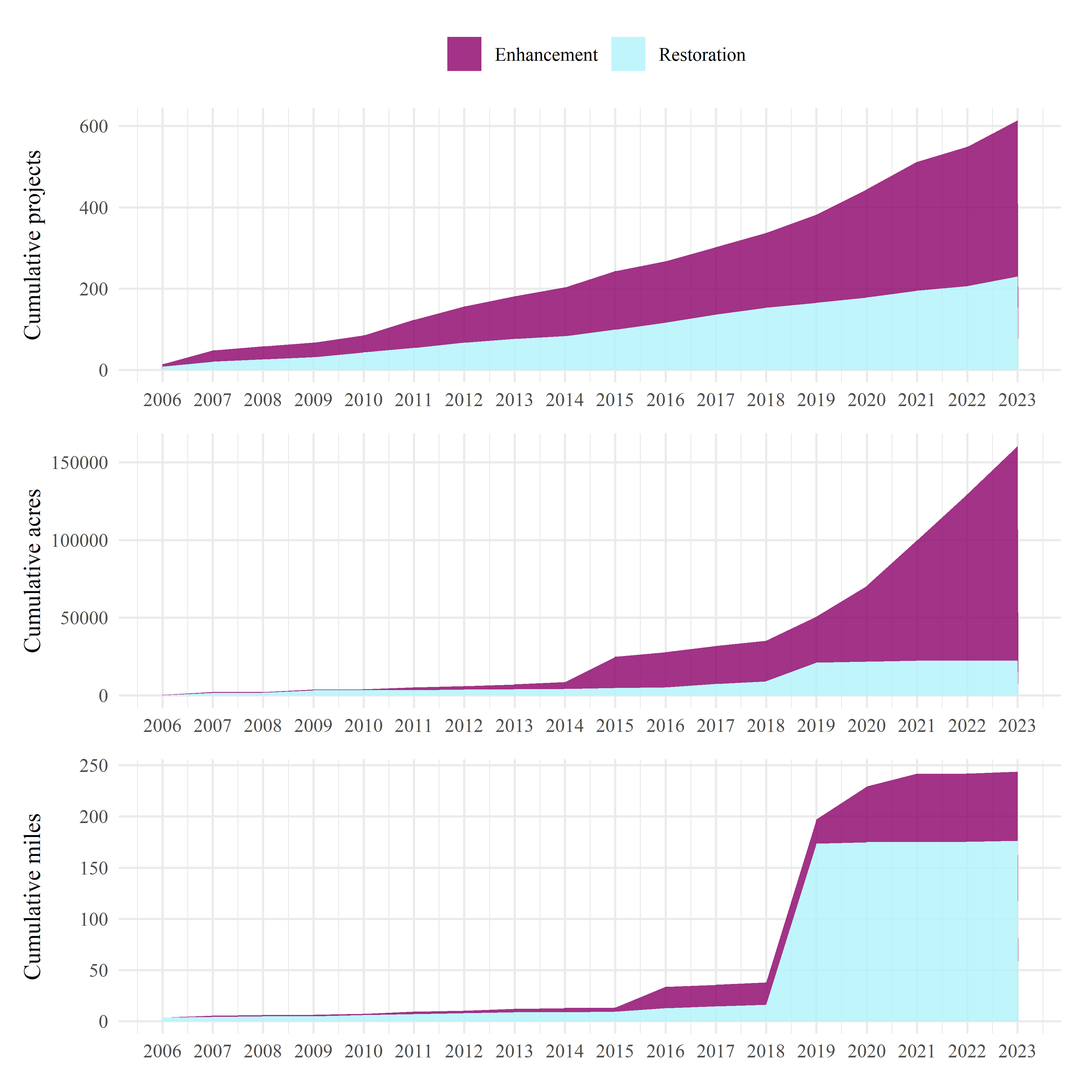
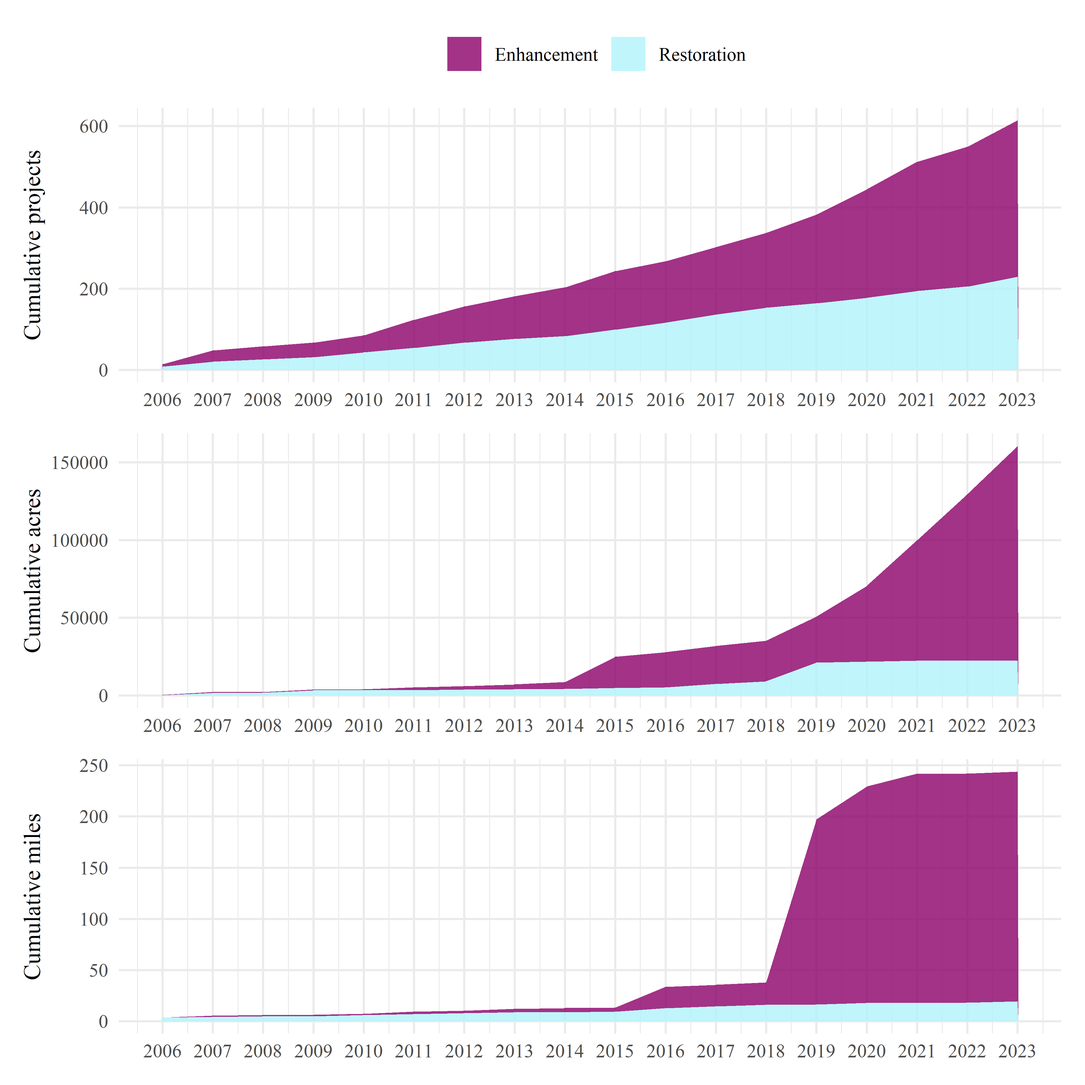
reproc summaries with fix to restoration data for 157 project to enhancement

Changed region(s): [[0.6851, 0.7474, 0.9654, 0.9343]]

diff --git a/docs/summaries.html b/docs/summaries.html
@@ -127,8 +127,8 @@ Note
 <div class="cell-output-display">
 
 <h5 class="title anchored">Projects in Tampa Bay by primary habitat (2006-2023)</h5>
-<div class="reactable html-widget html-fill-item-overflow-hidden html-fill-item" id="htmlwidget-1bc8f4dcec705fb9eadd" style="width:auto;height:auto;"></div>
-<script type="application/json" data-for="htmlwidget-1bc8f4dcec705fb9eadd">{"x":{"tag":{"name":"Reactable","attribs":{"data":{"rowgrp":["Artificial Reefs","Coastal Uplands","Forested Freshwater Wetlands","Hard Bottom","Intertidal Estuarine (Other)","Living Shorelines","Low-Salinity Salt Marsh","Mangrove Forests","Non-forested Freshwater Wetlands","Oyster Bars","Salt Barrens","Seagrasses","Tidal Tributaries","Uplands (Non-coastal)","Other","Total"],"tot":["3","34","45","9","40","14","49","39","48","14","2","12","11","293","1","614"],"Restoration (Ac / Mi)":["0 / < 1","12,107 / < 1","490 / < 1","23 / 2","194 / 162","7 / 3","159 / 5","404 / < 1","766 / < 1","300 / 1","42 / 0","3,100 / < 1","54 / < 1","4,835 / < 1","0 / < 1","22,480 / 176"],"Enhancement (Ac / Mi)":["0 / 0","2,093 / 2","1,238 / 2","0 / 0","273 / 16","0 / 0","144 / 0","1,140 / < 1","267 / 3","0 / 0","0 / 0","< 1 / < 1","1 / 1","132,750 / 41","0 / 0","137,906 / 67"]},"columns":[{"id":"rowgrp","name":"Habitat","type":"character","resizable":true,"minWidth":180,"style":[{"fontSize":14,"fontFamily":"roboto"},{"fontSize":14,"fontFamily":"roboto"},{"fontSize":14,"fontFamily":"roboto"},{"fontSize":14,"fontFamily":"roboto"},{"fontSize":14,"fontFamily":"roboto"},{"fontSize":14,"fontFamily":"roboto"},{"fontSize":14,"fontFamily":"roboto"},{"fontSize":14,"fontFamily":"roboto"},{"fontSize":14,"fontFamily":"roboto"},{"fontSize":14,"fontFamily":"roboto"},{"fontSize":14,"fontFamily":"roboto"},{"fontSize":14,"fontFamily":"roboto"},{"fontSize":14,"fontFamily":"roboto"},{"fontSize":14,"fontFamily":"roboto"},{"fontSize":14,"fontFamily":"roboto"},{"fontWeight":"bold","fontSize":14,"fontFamily":"roboto"}],"headerStyle":{"fontSize":14,"fontFamily":"roboto"},"className":"sticky left-col-1-bord","headerClassName":"sticky left-col-1-bord","footerClassName":"sticky left-col-1-bord"},{"id":"tot","name":"Total projects","type":"character","resizable":true,"minWidth":70,"style":[{"fontSize":14,"fontFamily":"roboto"},{"fontSize":14,"fontFamily":"roboto"},{"fontSize":14,"fontFamily":"roboto"},{"fontSize":14,"fontFamily":"roboto"},{"fontSize":14,"fontFamily":"roboto"},{"fontSize":14,"fontFamily":"roboto"},{"fontSize":14,"fontFamily":"roboto"},{"fontSize":14,"fontFamily":"roboto"},{"fontSize":14,"fontFamily":"roboto"},{"fontSize":14,"fontFamily":"roboto"},{"fontSize":14,"fontFamily":"roboto"},{"fontSize":14,"fontFamily":"roboto"},{"fontSize":14,"fontFamily":"roboto"},{"fontSize":14,"fontFamily":"roboto"},{"fontSize":14,"fontFamily":"roboto"},{"fontWeight":"bold","fontSize":14,"fontFamily":"roboto"}],"headerStyle":{"fontSize":14,"fontFamily":"roboto"}},{"id":"Restoration (Ac / Mi)","name":"Restoration (Ac / Mi)","type":"character","resizable":true,"minWidth":100,"style":[{"fontSize":14,"fontFamily":"roboto"},{"fontSize":14,"fontFamily":"roboto"},{"fontSize":14,"fontFamily":"roboto"},{"fontSize":14,"fontFamily":"roboto"},{"fontSize":14,"fontFamily":"roboto"},{"fontSize":14,"fontFamily":"roboto"},{"fontSize":14,"fontFamily":"roboto"},{"fontSize":14,"fontFamily":"roboto"},{"fontSize":14,"fontFamily":"roboto"},{"fontSize":14,"fontFamily":"roboto"},{"fontSize":14,"fontFamily":"roboto"},{"fontSize":14,"fontFamily":"roboto"},{"fontSize":14,"fontFamily":"roboto"},{"fontSize":14,"fontFamily":"roboto"},{"fontSize":14,"fontFamily":"roboto"},{"fontWeight":"bold","fontSize":14,"fontFamily":"roboto"}],"headerStyle":{"fontSize":14,"fontFamily":"roboto"}},{"id":"Enhancement (Ac / Mi)","name":"Enhancement (Ac / Mi)","type":"character","resizable":true,"minWidth":100,"style":[{"fontSize":14,"fontFamily":"roboto"},{"fontSize":14,"fontFamily":"roboto"},{"fontSize":14,"fontFamily":"roboto"},{"fontSize":14,"fontFamily":"roboto"},{"fontSize":14,"fontFamily":"roboto"},{"fontSize":14,"fontFamily":"roboto"},{"fontSize":14,"fontFamily":"roboto"},{"fontSize":14,"fontFamily":"roboto"},{"fontSize":14,"fontFamily":"roboto"},{"fontSize":14,"fontFamily":"roboto"},{"fontSize":14,"fontFamily":"roboto"},{"fontSize":14,"fontFamily":"roboto"},{"fontSize":14,"fontFamily":"roboto"},{"fontSize":14,"fontFamily":"roboto"},{"fontSize":14,"fontFamily":"roboto"},{"fontWeight":"bold","fontSize":14,"fontFamily":"roboto"}],"headerStyle":{"fontSize":14,"fontFamily":"roboto"}}],"defaultPageSize":16,"showPageSizeOptions":false,"highlight":true,"dataKey":"aa79c97826ffba7c87fc3f5f9c53353f"},"children":[]},"class":"reactR_markup"},"evals":[],"jsHooks":[]}</script>
+<div class="reactable html-widget html-fill-item-overflow-hidden html-fill-item" id="htmlwidget-4f658ec798e7f2605863" style="width:auto;height:auto;"></div>
+<script type="application/json" data-for="htmlwidget-4f658ec798e7f2605863">{"x":{"tag":{"name":"Reactable","attribs":{"data":{"rowgrp":["Artificial Reefs","Coastal Uplands","Forested Freshwater Wetlands","Hard Bottom","Intertidal Estuarine (Other)","Living Shorelines","Low-Salinity Salt Marsh","Mangrove Forests","Non-forested Freshwater Wetlands","Oyster Bars","Salt Barrens","Seagrasses","Tidal Tributaries","Uplands (Non-coastal)","Other","Total"],"tot":["3","34","45","9","40","14","49","39","48","14","2","12","11","293","1","614"],"Restoration (Ac / Mi)":["0 / < 1","12,107 / < 1","490 / < 1","23 / 2","194 / 162","7 / 3","159 / 5","404 / < 1","766 / < 1","300 / 1","42 / 0","3,100 / < 1","54 / < 1","4,835 / < 1","0 / < 1","22,480 / 176"],"Enhancement (Ac / Mi)":["0 / 0","2,093 / 2","1,238 / 2","0 / 0","273 / 16","0 / 0","144 / 0","1,140 / < 1","267 / 3","0 / 0","0 / 0","< 1 / < 1","1 / 1","132,750 / 41","0 / 0","137,906 / 67"]},"columns":[{"id":"rowgrp","name":"Habitat","type":"character","resizable":true,"minWidth":180,"style":[{"fontSize":14,"fontFamily":"roboto"},{"fontSize":14,"fontFamily":"roboto"},{"fontSize":14,"fontFamily":"roboto"},{"fontSize":14,"fontFamily":"roboto"},{"fontSize":14,"fontFamily":"roboto"},{"fontSize":14,"fontFamily":"roboto"},{"fontSize":14,"fontFamily":"roboto"},{"fontSize":14,"fontFamily":"roboto"},{"fontSize":14,"fontFamily":"roboto"},{"fontSize":14,"fontFamily":"roboto"},{"fontSize":14,"fontFamily":"roboto"},{"fontSize":14,"fontFamily":"roboto"},{"fontSize":14,"fontFamily":"roboto"},{"fontSize":14,"fontFamily":"roboto"},{"fontSize":14,"fontFamily":"roboto"},{"fontWeight":"bold","fontSize":14,"fontFamily":"roboto"}],"headerStyle":{"fontSize":14,"fontFamily":"roboto"},"className":"sticky left-col-1-bord","headerClassName":"sticky left-col-1-bord","footerClassName":"sticky left-col-1-bord"},{"id":"tot","name":"Total projects","type":"character","resizable":true,"minWidth":70,"style":[{"fontSize":14,"fontFamily":"roboto"},{"fontSize":14,"fontFamily":"roboto"},{"fontSize":14,"fontFamily":"roboto"},{"fontSize":14,"fontFamily":"roboto"},{"fontSize":14,"fontFamily":"roboto"},{"fontSize":14,"fontFamily":"roboto"},{"fontSize":14,"fontFamily":"roboto"},{"fontSize":14,"fontFamily":"roboto"},{"fontSize":14,"fontFamily":"roboto"},{"fontSize":14,"fontFamily":"roboto"},{"fontSize":14,"fontFamily":"roboto"},{"fontSize":14,"fontFamily":"roboto"},{"fontSize":14,"fontFamily":"roboto"},{"fontSize":14,"fontFamily":"roboto"},{"fontSize":14,"fontFamily":"roboto"},{"fontWeight":"bold","fontSize":14,"fontFamily":"roboto"}],"headerStyle":{"fontSize":14,"fontFamily":"roboto"}},{"id":"Restoration (Ac / Mi)","name":"Restoration (Ac / Mi)","type":"character","resizable":true,"minWidth":100,"style":[{"fontSize":14,"fontFamily":"roboto"},{"fontSize":14,"fontFamily":"roboto"},{"fontSize":14,"fontFamily":"roboto"},{"fontSize":14,"fontFamily":"roboto"},{"fontSize":14,"fontFamily":"roboto"},{"fontSize":14,"fontFamily":"roboto"},{"fontSize":14,"fontFamily":"roboto"},{"fontSize":14,"fontFamily":"roboto"},{"fontSize":14,"fontFamily":"roboto"},{"fontSize":14,"fontFamily":"roboto"},{"fontSize":14,"fontFamily":"roboto"},{"fontSize":14,"fontFamily":"roboto"},{"fontSize":14,"fontFamily":"roboto"},{"fontSize":14,"fontFamily":"roboto"},{"fontSize":14,"fontFamily":"roboto"},{"fontWeight":"bold","fontSize":14,"fontFamily":"roboto"}],"headerStyle":{"fontSize":14,"fontFamily":"roboto"}},{"id":"Enhancement (Ac / Mi)","name":"Enhancement (Ac / Mi)","type":"character","resizable":true,"minWidth":100,"style":[{"fontSize":14,"fontFamily":"roboto"},{"fontSize":14,"fontFamily":"roboto"},{"fontSize":14,"fontFamily":"roboto"},{"fontSize":14,"fontFamily":"roboto"},{"fontSize":14,"fontFamily":"roboto"},{"fontSize":14,"fontFamily":"roboto"},{"fontSize":14,"fontFamily":"roboto"},{"fontSize":14,"fontFamily":"roboto"},{"fontSize":14,"fontFamily":"roboto"},{"fontSize":14,"fontFamily":"roboto"},{"fontSize":14,"fontFamily":"roboto"},{"fontSize":14,"fontFamily":"roboto"},{"fontSize":14,"fontFamily":"roboto"},{"fontSize":14,"fontFamily":"roboto"},{"fontSize":14,"fontFamily":"roboto"},{"fontWeight":"bold","fontSize":14,"fontFamily":"roboto"}],"headerStyle":{"fontSize":14,"fontFamily":"roboto"}}],"defaultPageSize":16,"showPageSizeOptions":false,"highlight":true,"dataKey":"aa79c97826ffba7c87fc3f5f9c53353f"},"children":[]},"class":"reactR_markup"},"evals":[],"jsHooks":[]}</script>
 </div>
 </div>
 <p><br></p>
@@ -136,8 +136,8 @@ Note
 <div class="cell-output-display">
 
 <h5 class="title anchored">Projects in Tampa Bay by general habitat (1971-2023)</h5>
-<div class="reactable html-widget html-fill-item-overflow-hidden html-fill-item" id="htmlwidget-41f16ddb3d653c7382fd" style="width:auto;height:auto;"></div>
-<script type="application/json" data-for="htmlwidget-41f16ddb3d653c7382fd">{"x":{"tag":{"name":"Reactable","attribs":{"data":{"rowgrp":["Estuarine","Freshwater","Mixed","Uplands","Total"],"tot":["315","115","45","351","826"],"Restoration (Ac / Mi)":["5,238 / 173","1,433 / < 1","742 / 3","17,337 / 2","24,751 / 178"],"Enhancement (Ac / Mi)":["1,922 / 19","1,803 / 6","847 / 1","135,197 / 43","139,770 / 69"],"Protection (Ac / Mi)":["1 / 0","156 / 0","< 1 / 0","3,071 / 0","3,228 / 0"]},"columns":[{"id":"rowgrp","name":"Habitat","type":"character","resizable":true,"minWidth":80,"style":[{"fontSize":14,"fontFamily":"roboto"},{"fontSize":14,"fontFamily":"roboto"},{"fontSize":14,"fontFamily":"roboto"},{"fontSize":14,"fontFamily":"roboto"},{"fontWeight":"bold","fontSize":14,"fontFamily":"roboto"}],"headerStyle":{"fontSize":14,"fontFamily":"roboto"},"className":"sticky left-col-1-bord","headerClassName":"sticky left-col-1-bord","footerClassName":"sticky left-col-1-bord"},{"id":"tot","name":"Total projects","type":"character","resizable":true,"minWidth":70,"style":[{"fontSize":14,"fontFamily":"roboto"},{"fontSize":14,"fontFamily":"roboto"},{"fontSize":14,"fontFamily":"roboto"},{"fontSize":14,"fontFamily":"roboto"},{"fontWeight":"bold","fontSize":14,"fontFamily":"roboto"}],"headerStyle":{"fontSize":14,"fontFamily":"roboto"}},{"id":"Restoration (Ac / Mi)","name":"Restoration (Ac / Mi)","type":"character","resizable":true,"minWidth":100,"style":[{"fontSize":14,"fontFamily":"roboto"},{"fontSize":14,"fontFamily":"roboto"},{"fontSize":14,"fontFamily":"roboto"},{"fontSize":14,"fontFamily":"roboto"},{"fontWeight":"bold","fontSize":14,"fontFamily":"roboto"}],"headerStyle":{"fontSize":14,"fontFamily":"roboto"}},{"id":"Enhancement (Ac / Mi)","name":"Enhancement (Ac / Mi)","type":"character","resizable":true,"minWidth":100,"style":[{"fontSize":14,"fontFamily":"roboto"},{"fontSize":14,"fontFamily":"roboto"},{"fontSize":14,"fontFamily":"roboto"},{"fontSize":14,"fontFamily":"roboto"},{"fontWeight":"bold","fontSize":14,"fontFamily":"roboto"}],"headerStyle":{"fontSize":14,"fontFamily":"roboto"}},{"id":"Protection (Ac / Mi)","name":"Protection (Ac / Mi)","type":"character","resizable":true,"minWidth":100,"style":[{"fontSize":14,"fontFamily":"roboto"},{"fontSize":14,"fontFamily":"roboto"},{"fontSize":14,"fontFamily":"roboto"},{"fontSize":14,"fontFamily":"roboto"},{"fontWeight":"bold","fontSize":14,"fontFamily":"roboto"}],"headerStyle":{"fontSize":14,"fontFamily":"roboto"}}],"defaultPageSize":5,"showPageSizeOptions":false,"highlight":true,"dataKey":"4c58068f6f726a1c81b6d954224b8e9e"},"children":[]},"class":"reactR_markup"},"evals":[],"jsHooks":[]}</script>
+<div class="reactable html-widget html-fill-item-overflow-hidden html-fill-item" id="htmlwidget-d72da113c68ca5c5415b" style="width:auto;height:auto;"></div>
+<script type="application/json" data-for="htmlwidget-d72da113c68ca5c5415b">{"x":{"tag":{"name":"Reactable","attribs":{"data":{"rowgrp":["Estuarine","Freshwater","Mixed","Uplands","Total"],"tot":["315","115","45","351","826"],"Restoration (Ac / Mi)":["5,238 / 173","1,433 / < 1","742 / 3","17,337 / 2","24,751 / 178"],"Enhancement (Ac / Mi)":["1,922 / 19","1,803 / 6","847 / 1","135,197 / 43","139,770 / 69"],"Protection (Ac / Mi)":["1 / 0","156 / 0","< 1 / 0","3,071 / 0","3,228 / 0"]},"columns":[{"id":"rowgrp","name":"Habitat","type":"character","resizable":true,"minWidth":80,"style":[{"fontSize":14,"fontFamily":"roboto"},{"fontSize":14,"fontFamily":"roboto"},{"fontSize":14,"fontFamily":"roboto"},{"fontSize":14,"fontFamily":"roboto"},{"fontWeight":"bold","fontSize":14,"fontFamily":"roboto"}],"headerStyle":{"fontSize":14,"fontFamily":"roboto"},"className":"sticky left-col-1-bord","headerClassName":"sticky left-col-1-bord","footerClassName":"sticky left-col-1-bord"},{"id":"tot","name":"Total projects","type":"character","resizable":true,"minWidth":70,"style":[{"fontSize":14,"fontFamily":"roboto"},{"fontSize":14,"fontFamily":"roboto"},{"fontSize":14,"fontFamily":"roboto"},{"fontSize":14,"fontFamily":"roboto"},{"fontWeight":"bold","fontSize":14,"fontFamily":"roboto"}],"headerStyle":{"fontSize":14,"fontFamily":"roboto"}},{"id":"Restoration (Ac / Mi)","name":"Restoration (Ac / Mi)","type":"character","resizable":true,"minWidth":100,"style":[{"fontSize":14,"fontFamily":"roboto"},{"fontSize":14,"fontFamily":"roboto"},{"fontSize":14,"fontFamily":"roboto"},{"fontSize":14,"fontFamily":"roboto"},{"fontWeight":"bold","fontSize":14,"fontFamily":"roboto"}],"headerStyle":{"fontSize":14,"fontFamily":"roboto"}},{"id":"Enhancement (Ac / Mi)","name":"Enhancement (Ac / Mi)","type":"character","resizable":true,"minWidth":100,"style":[{"fontSize":14,"fontFamily":"roboto"},{"fontSize":14,"fontFamily":"roboto"},{"fontSize":14,"fontFamily":"roboto"},{"fontSize":14,"fontFamily":"roboto"},{"fontWeight":"bold","fontSize":14,"fontFamily":"roboto"}],"headerStyle":{"fontSize":14,"fontFamily":"roboto"}},{"id":"Protection (Ac / Mi)","name":"Protection (Ac / Mi)","type":"character","resizable":true,"minWidth":100,"style":[{"fontSize":14,"fontFamily":"roboto"},{"fontSize":14,"fontFamily":"roboto"},{"fontSize":14,"fontFamily":"roboto"},{"fontSize":14,"fontFamily":"roboto"},{"fontWeight":"bold","fontSize":14,"fontFamily":"roboto"}],"headerStyle":{"fontSize":14,"fontFamily":"roboto"}}],"defaultPageSize":5,"showPageSizeOptions":false,"highlight":true,"dataKey":"4c58068f6f726a1c81b6d954224b8e9e"},"children":[]},"class":"reactR_markup"},"evals":[],"jsHooks":[]}</script>
 </div>
 </div>
 <p><br></p>
@@ -145,8 +145,8 @@ Note
 <div class="cell-output-display">
 
 <h5 class="title anchored">Projects in Tampa Bay by primary habitat (2023)</h5>
-<div class="reactable html-widget html-fill-item-overflow-hidden html-fill-item" id="htmlwidget-c16bb44611387bc58e13" style="width:auto;height:auto;"></div>
-<script type="application/json" data-for="htmlwidget-c16bb44611387bc58e13">{"x":{"tag":{"name":"Reactable","attribs":{"data":{"rowgrp":["Artificial Reefs","Coastal Uplands","Forested Freshwater Wetlands","Hard Bottom","Intertidal Estuarine (Other)","Living Shorelines","Low-Salinity Salt Marsh","Mangrove Forests","Non-forested Freshwater Wetlands","Oyster Bars","Salt Barrens","Seagrasses","Tidal Tributaries","Uplands (Non-coastal)","Other","Total"],"tot":["0","12","0","0","1","2","0","3","6","1","0","3","1","36","0","65"],"Restoration (Ac / Mi)":["0 / 0","123 / 0","0 / 0","0 / 0","1 / 0","7 / < 1","0 / 0","3 / < 1","0 / < 1","< 1 / 0","0 / 0","4 / 0","< 1 / 0","23 / < 1","0 / 0","161 / 1"],"Enhancement (Ac / Mi)":["0 / 0","854 / 0","0 / 0","0 / 0","0 / 0","0 / 0","0 / 0","2 / 0","41 / < 1","0 / 0","0 / 0","0 / 0","0 / 0","29,933 / 0","0 / 0","30,829 / < 1"]},"columns":[{"id":"rowgrp","name":"Habitat","type":"character","resizable":true,"minWidth":180,"style":[{"fontSize":14,"fontFamily":"roboto"},{"fontSize":14,"fontFamily":"roboto"},{"fontSize":14,"fontFamily":"roboto"},{"fontSize":14,"fontFamily":"roboto"},{"fontSize":14,"fontFamily":"roboto"},{"fontSize":14,"fontFamily":"roboto"},{"fontSize":14,"fontFamily":"roboto"},{"fontSize":14,"fontFamily":"roboto"},{"fontSize":14,"fontFamily":"roboto"},{"fontSize":14,"fontFamily":"roboto"},{"fontSize":14,"fontFamily":"roboto"},{"fontSize":14,"fontFamily":"roboto"},{"fontSize":14,"fontFamily":"roboto"},{"fontSize":14,"fontFamily":"roboto"},{"fontSize":14,"fontFamily":"roboto"},{"fontWeight":"bold","fontSize":14,"fontFamily":"roboto"}],"headerStyle":{"fontSize":14,"fontFamily":"roboto"},"className":"sticky left-col-1-bord","headerClassName":"sticky left-col-1-bord","footerClassName":"sticky left-col-1-bord"},{"id":"tot","name":"Total projects","type":"character","resizable":true,"minWidth":70,"style":[{"fontSize":14,"fontFamily":"roboto"},{"fontSize":14,"fontFamily":"roboto"},{"fontSize":14,"fontFamily":"roboto"},{"fontSize":14,"fontFamily":"roboto"},{"fontSize":14,"fontFamily":"roboto"},{"fontSize":14,"fontFamily":"roboto"},{"fontSize":14,"fontFamily":"roboto"},{"fontSize":14,"fontFamily":"roboto"},{"fontSize":14,"fontFamily":"roboto"},{"fontSize":14,"fontFamily":"roboto"},{"fontSize":14,"fontFamily":"roboto"},{"fontSize":14,"fontFamily":"roboto"},{"fontSize":14,"fontFamily":"roboto"},{"fontSize":14,"fontFamily":"roboto"},{"fontSize":14,"fontFamily":"roboto"},{"fontWeight":"bold","fontSize":14,"fontFamily":"roboto"}],"headerStyle":{"fontSize":14,"fontFamily":"roboto"}},{"id":"Restoration (Ac / Mi)","name":"Restoration (Ac / Mi)","type":"character","resizable":true,"minWidth":100,"style":[{"fontSize":14,"fontFamily":"roboto"},{"fontSize":14,"fontFamily":"roboto"},{"fontSize":14,"fontFamily":"roboto"},{"fontSize":14,"fontFamily":"roboto"},{"fontSize":14,"fontFamily":"roboto"},{"fontSize":14,"fontFamily":"roboto"},{"fontSize":14,"fontFamily":"roboto"},{"fontSize":14,"fontFamily":"roboto"},{"fontSize":14,"fontFamily":"roboto"},{"fontSize":14,"fontFamily":"roboto"},{"fontSize":14,"fontFamily":"roboto"},{"fontSize":14,"fontFamily":"roboto"},{"fontSize":14,"fontFamily":"roboto"},{"fontSize":14,"fontFamily":"roboto"},{"fontSize":14,"fontFamily":"roboto"},{"fontWeight":"bold","fontSize":14,"fontFamily":"roboto"}],"headerStyle":{"fontSize":14,"fontFamily":"roboto"}},{"id":"Enhancement (Ac / Mi)","name":"Enhancement (Ac / Mi)","type":"character","resizable":true,"minWidth":100,"style":[{"fontSize":14,"fontFamily":"roboto"},{"fontSize":14,"fontFamily":"roboto"},{"fontSize":14,"fontFamily":"roboto"},{"fontSize":14,"fontFamily":"roboto"},{"fontSize":14,"fontFamily":"roboto"},{"fontSize":14,"fontFamily":"roboto"},{"fontSize":14,"fontFamily":"roboto"},{"fontSize":14,"fontFamily":"roboto"},{"fontSize":14,"fontFamily":"roboto"},{"fontSize":14,"fontFamily":"roboto"},{"fontSize":14,"fontFamily":"roboto"},{"fontSize":14,"fontFamily":"roboto"},{"fontSize":14,"fontFamily":"roboto"},{"fontSize":14,"fontFamily":"roboto"},{"fontSize":14,"fontFamily":"roboto"},{"fontWeight":"bold","fontSize":14,"fontFamily":"roboto"}],"headerStyle":{"fontSize":14,"fontFamily":"roboto"}}],"defaultPageSize":16,"showPageSizeOptions":false,"highlight":true,"dataKey":"8093e99644a35d54dc15eef43739f7d1"},"children":[]},"class":"reactR_markup"},"evals":[],"jsHooks":[]}</script>
+<div class="reactable html-widget html-fill-item-overflow-hidden html-fill-item" id="htmlwidget-f06bf50c6f0ada9a0c44" style="width:auto;height:auto;"></div>
+<script type="application/json" data-for="htmlwidget-f06bf50c6f0ada9a0c44">{"x":{"tag":{"name":"Reactable","attribs":{"data":{"rowgrp":["Artificial Reefs","Coastal Uplands","Forested Freshwater Wetlands","Hard Bottom","Intertidal Estuarine (Other)","Living Shorelines","Low-Salinity Salt Marsh","Mangrove Forests","Non-forested Freshwater Wetlands","Oyster Bars","Salt Barrens","Seagrasses","Tidal Tributaries","Uplands (Non-coastal)","Other","Total"],"tot":["0","12","0","0","1","2","0","3","6","1","0","3","1","36","0","65"],"Restoration (Ac / Mi)":["0 / 0","123 / 0","0 / 0","0 / 0","1 / 0","7 / < 1","0 / 0","3 / < 1","0 / < 1","< 1 / 0","0 / 0","4 / 0","< 1 / 0","23 / < 1","0 / 0","161 / 1"],"Enhancement (Ac / Mi)":["0 / 0","854 / 0","0 / 0","0 / 0","0 / 0","0 / 0","0 / 0","2 / 0","41 / < 1","0 / 0","0 / 0","0 / 0","0 / 0","29,933 / 0","0 / 0","30,829 / < 1"]},"columns":[{"id":"rowgrp","name":"Habitat","type":"character","resizable":true,"minWidth":180,"style":[{"fontSize":14,"fontFamily":"roboto"},{"fontSize":14,"fontFamily":"roboto"},{"fontSize":14,"fontFamily":"roboto"},{"fontSize":14,"fontFamily":"roboto"},{"fontSize":14,"fontFamily":"roboto"},{"fontSize":14,"fontFamily":"roboto"},{"fontSize":14,"fontFamily":"roboto"},{"fontSize":14,"fontFamily":"roboto"},{"fontSize":14,"fontFamily":"roboto"},{"fontSize":14,"fontFamily":"roboto"},{"fontSize":14,"fontFamily":"roboto"},{"fontSize":14,"fontFamily":"roboto"},{"fontSize":14,"fontFamily":"roboto"},{"fontSize":14,"fontFamily":"roboto"},{"fontSize":14,"fontFamily":"roboto"},{"fontWeight":"bold","fontSize":14,"fontFamily":"roboto"}],"headerStyle":{"fontSize":14,"fontFamily":"roboto"},"className":"sticky left-col-1-bord","headerClassName":"sticky left-col-1-bord","footerClassName":"sticky left-col-1-bord"},{"id":"tot","name":"Total projects","type":"character","resizable":true,"minWidth":70,"style":[{"fontSize":14,"fontFamily":"roboto"},{"fontSize":14,"fontFamily":"roboto"},{"fontSize":14,"fontFamily":"roboto"},{"fontSize":14,"fontFamily":"roboto"},{"fontSize":14,"fontFamily":"roboto"},{"fontSize":14,"fontFamily":"roboto"},{"fontSize":14,"fontFamily":"roboto"},{"fontSize":14,"fontFamily":"roboto"},{"fontSize":14,"fontFamily":"roboto"},{"fontSize":14,"fontFamily":"roboto"},{"fontSize":14,"fontFamily":"roboto"},{"fontSize":14,"fontFamily":"roboto"},{"fontSize":14,"fontFamily":"roboto"},{"fontSize":14,"fontFamily":"roboto"},{"fontSize":14,"fontFamily":"roboto"},{"fontWeight":"bold","fontSize":14,"fontFamily":"roboto"}],"headerStyle":{"fontSize":14,"fontFamily":"roboto"}},{"id":"Restoration (Ac / Mi)","name":"Restoration (Ac / Mi)","type":"character","resizable":true,"minWidth":100,"style":[{"fontSize":14,"fontFamily":"roboto"},{"fontSize":14,"fontFamily":"roboto"},{"fontSize":14,"fontFamily":"roboto"},{"fontSize":14,"fontFamily":"roboto"},{"fontSize":14,"fontFamily":"roboto"},{"fontSize":14,"fontFamily":"roboto"},{"fontSize":14,"fontFamily":"roboto"},{"fontSize":14,"fontFamily":"roboto"},{"fontSize":14,"fontFamily":"roboto"},{"fontSize":14,"fontFamily":"roboto"},{"fontSize":14,"fontFamily":"roboto"},{"fontSize":14,"fontFamily":"roboto"},{"fontSize":14,"fontFamily":"roboto"},{"fontSize":14,"fontFamily":"roboto"},{"fontSize":14,"fontFamily":"roboto"},{"fontWeight":"bold","fontSize":14,"fontFamily":"roboto"}],"headerStyle":{"fontSize":14,"fontFamily":"roboto"}},{"id":"Enhancement (Ac / Mi)","name":"Enhancement (Ac / Mi)","type":"character","resizable":true,"minWidth":100,"style":[{"fontSize":14,"fontFamily":"roboto"},{"fontSize":14,"fontFamily":"roboto"},{"fontSize":14,"fontFamily":"roboto"},{"fontSize":14,"fontFamily":"roboto"},{"fontSize":14,"fontFamily":"roboto"},{"fontSize":14,"fontFamily":"roboto"},{"fontSize":14,"fontFamily":"roboto"},{"fontSize":14,"fontFamily":"roboto"},{"fontSize":14,"fontFamily":"roboto"},{"fontSize":14,"fontFamily":"roboto"},{"fontSize":14,"fontFamily":"roboto"},{"fontSize":14,"fontFamily":"roboto"},{"fontSize":14,"fontFamily":"roboto"},{"fontSize":14,"fontFamily":"roboto"},{"fontSize":14,"fontFamily":"roboto"},{"fontWeight":"bold","fontSize":14,"fontFamily":"roboto"}],"headerStyle":{"fontSize":14,"fontFamily":"roboto"}}],"defaultPageSize":16,"showPageSizeOptions":false,"highlight":true,"dataKey":"8093e99644a35d54dc15eef43739f7d1"},"children":[]},"class":"reactR_markup"},"evals":[],"jsHooks":[]}</script>
 </div>
 </div>
 <p><br></p>
@@ -154,8 +154,8 @@ Note
 <div class="cell-output-display">
 
 <h5 class="title anchored">Projects in Tampa Bay by general habitat (2023)</h5>
-<div class="reactable html-widget html-fill-item-overflow-hidden html-fill-item" id="htmlwidget-429cec57b4cd9c531850" style="width:auto;height:auto;"></div>
-<script type="application/json" data-for="htmlwidget-429cec57b4cd9c531850">{"x":{"tag":{"name":"Reactable","attribs":{"data":{"rowgrp":["Estuarine","Freshwater","Mixed","Uplands","Total"],"tot":["9","6","3","53","71"],"Restoration (Ac / Mi)":["8 / < 1","0 / < 1","8 / 0","146 / < 1","161 / 1"],"Enhancement (Ac / Mi)":["2 / 0","41 / < 1","0 / 0","30,786 / 0","30,829 / < 1"],"Protection (Ac / Mi)":["1 / 0","0 / 0","< 1 / 0","1,019 / 0","1,020 / 0"]},"columns":[{"id":"rowgrp","name":"Habitat","type":"character","resizable":true,"minWidth":80,"style":[{"fontSize":14,"fontFamily":"roboto"},{"fontSize":14,"fontFamily":"roboto"},{"fontSize":14,"fontFamily":"roboto"},{"fontSize":14,"fontFamily":"roboto"},{"fontWeight":"bold","fontSize":14,"fontFamily":"roboto"}],"headerStyle":{"fontSize":14,"fontFamily":"roboto"},"className":"sticky left-col-1-bord","headerClassName":"sticky left-col-1-bord","footerClassName":"sticky left-col-1-bord"},{"id":"tot","name":"Total projects","type":"character","resizable":true,"minWidth":70,"style":[{"fontSize":14,"fontFamily":"roboto"},{"fontSize":14,"fontFamily":"roboto"},{"fontSize":14,"fontFamily":"roboto"},{"fontSize":14,"fontFamily":"roboto"},{"fontWeight":"bold","fontSize":14,"fontFamily":"roboto"}],"headerStyle":{"fontSize":14,"fontFamily":"roboto"}},{"id":"Restoration (Ac / Mi)","name":"Restoration (Ac / Mi)","type":"character","resizable":true,"minWidth":100,"style":[{"fontSize":14,"fontFamily":"roboto"},{"fontSize":14,"fontFamily":"roboto"},{"fontSize":14,"fontFamily":"roboto"},{"fontSize":14,"fontFamily":"roboto"},{"fontWeight":"bold","fontSize":14,"fontFamily":"roboto"}],"headerStyle":{"fontSize":14,"fontFamily":"roboto"}},{"id":"Enhancement (Ac / Mi)","name":"Enhancement (Ac / Mi)","type":"character","resizable":true,"minWidth":100,"style":[{"fontSize":14,"fontFamily":"roboto"},{"fontSize":14,"fontFamily":"roboto"},{"fontSize":14,"fontFamily":"roboto"},{"fontSize":14,"fontFamily":"roboto"},{"fontWeight":"bold","fontSize":14,"fontFamily":"roboto"}],"headerStyle":{"fontSize":14,"fontFamily":"roboto"}},{"id":"Protection (Ac / Mi)","name":"Protection (Ac / Mi)","type":"character","resizable":true,"minWidth":100,"style":[{"fontSize":14,"fontFamily":"roboto"},{"fontSize":14,"fontFamily":"roboto"},{"fontSize":14,"fontFamily":"roboto"},{"fontSize":14,"fontFamily":"roboto"},{"fontWeight":"bold","fontSize":14,"fontFamily":"roboto"}],"headerStyle":{"fontSize":14,"fontFamily":"roboto"}}],"defaultPageSize":5,"showPageSizeOptions":false,"highlight":true,"dataKey":"57c6593515cc5fe49c23c199c4bb030c"},"children":[]},"class":"reactR_markup"},"evals":[],"jsHooks":[]}</script>
+<div class="reactable html-widget html-fill-item-overflow-hidden html-fill-item" id="htmlwidget-68a32d113ca3a1981000" style="width:auto;height:auto;"></div>
+<script type="application/json" data-for="htmlwidget-68a32d113ca3a1981000">{"x":{"tag":{"name":"Reactable","attribs":{"data":{"rowgrp":["Estuarine","Freshwater","Mixed","Uplands","Total"],"tot":["9","6","3","53","71"],"Restoration (Ac / Mi)":["8 / < 1","0 / < 1","8 / 0","146 / < 1","161 / 1"],"Enhancement (Ac / Mi)":["2 / 0","41 / < 1","0 / 0","30,786 / 0","30,829 / < 1"],"Protection (Ac / Mi)":["1 / 0","0 / 0","< 1 / 0","1,019 / 0","1,020 / 0"]},"columns":[{"id":"rowgrp","name":"Habitat","type":"character","resizable":true,"minWidth":80,"style":[{"fontSize":14,"fontFamily":"roboto"},{"fontSize":14,"fontFamily":"roboto"},{"fontSize":14,"fontFamily":"roboto"},{"fontSize":14,"fontFamily":"roboto"},{"fontWeight":"bold","fontSize":14,"fontFamily":"roboto"}],"headerStyle":{"fontSize":14,"fontFamily":"roboto"},"className":"sticky left-col-1-bord","headerClassName":"sticky left-col-1-bord","footerClassName":"sticky left-col-1-bord"},{"id":"tot","name":"Total projects","type":"character","resizable":true,"minWidth":70,"style":[{"fontSize":14,"fontFamily":"roboto"},{"fontSize":14,"fontFamily":"roboto"},{"fontSize":14,"fontFamily":"roboto"},{"fontSize":14,"fontFamily":"roboto"},{"fontWeight":"bold","fontSize":14,"fontFamily":"roboto"}],"headerStyle":{"fontSize":14,"fontFamily":"roboto"}},{"id":"Restoration (Ac / Mi)","name":"Restoration (Ac / Mi)","type":"character","resizable":true,"minWidth":100,"style":[{"fontSize":14,"fontFamily":"roboto"},{"fontSize":14,"fontFamily":"roboto"},{"fontSize":14,"fontFamily":"roboto"},{"fontSize":14,"fontFamily":"roboto"},{"fontWeight":"bold","fontSize":14,"fontFamily":"roboto"}],"headerStyle":{"fontSize":14,"fontFamily":"roboto"}},{"id":"Enhancement (Ac / Mi)","name":"Enhancement (Ac / Mi)","type":"character","resizable":true,"minWidth":100,"style":[{"fontSize":14,"fontFamily":"roboto"},{"fontSize":14,"fontFamily":"roboto"},{"fontSize":14,"fontFamily":"roboto"},{"fontSize":14,"fontFamily":"roboto"},{"fontWeight":"bold","fontSize":14,"fontFamily":"roboto"}],"headerStyle":{"fontSize":14,"fontFamily":"roboto"}},{"id":"Protection (Ac / Mi)","name":"Protection (Ac / Mi)","type":"character","resizable":true,"minWidth":100,"style":[{"fontSize":14,"fontFamily":"roboto"},{"fontSize":14,"fontFamily":"roboto"},{"fontSize":14,"fontFamily":"roboto"},{"fontSize":14,"fontFamily":"roboto"},{"fontWeight":"bold","fontSize":14,"fontFamily":"roboto"}],"headerStyle":{"fontSize":14,"fontFamily":"roboto"}}],"defaultPageSize":5,"showPageSizeOptions":false,"highlight":true,"dataKey":"57c6593515cc5fe49c23c199c4bb030c"},"children":[]},"class":"reactR_markup"},"evals":[],"jsHooks":[]}</script>
 </div>
 </div>
 </section>
@@ -449,7 +449,7 @@ window.document.addEventListener("DOMContentLoaded", function (event) {
 });
 </script>
 </div> <!-- /content -->
-<script>var lightboxQuarto = GLightbox({"closeEffect":"zoom","descPosition":"bottom","openEffect":"zoom","selector":".lightbox","loop":true});</script>
+<script>var lightboxQuarto = GLightbox({"openEffect":"zoom","closeEffect":"zoom","loop":true,"selector":".lightbox","descPosition":"bottom"});</script>
 
 
 
